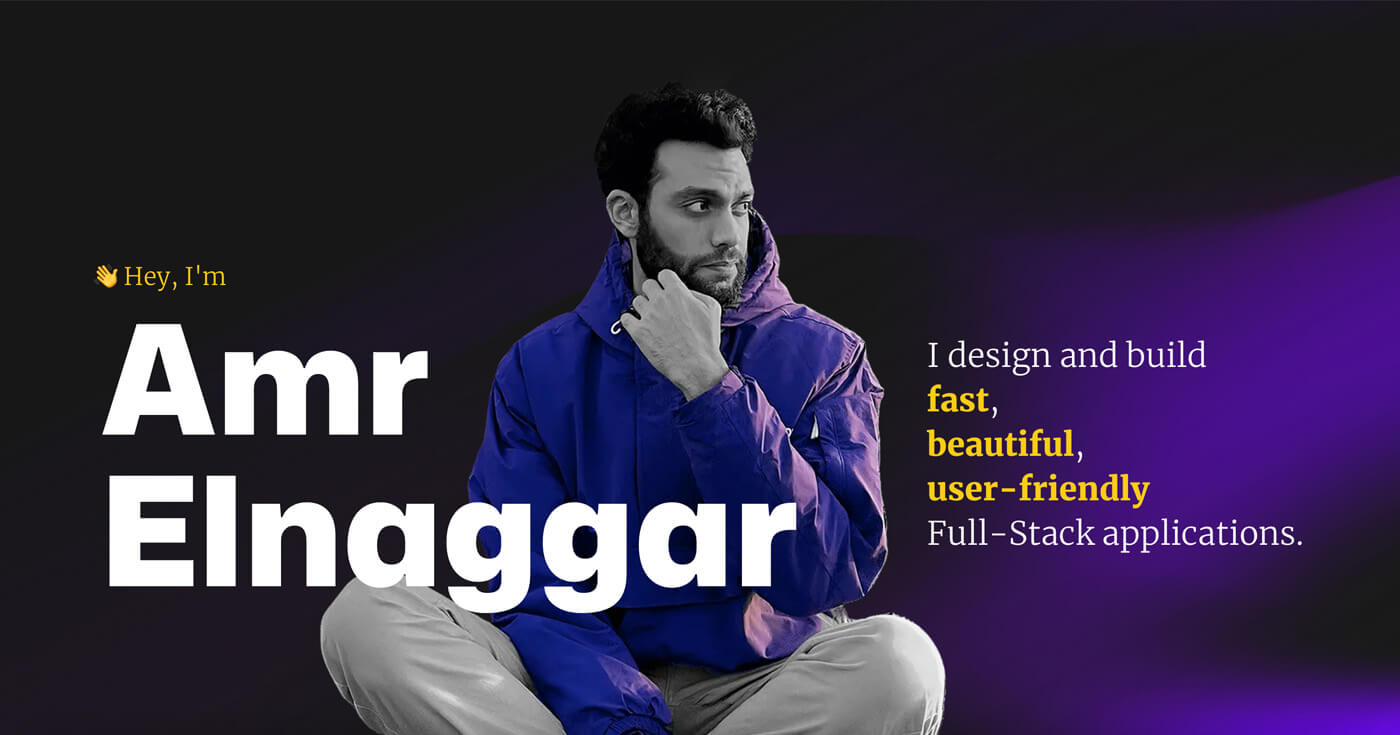
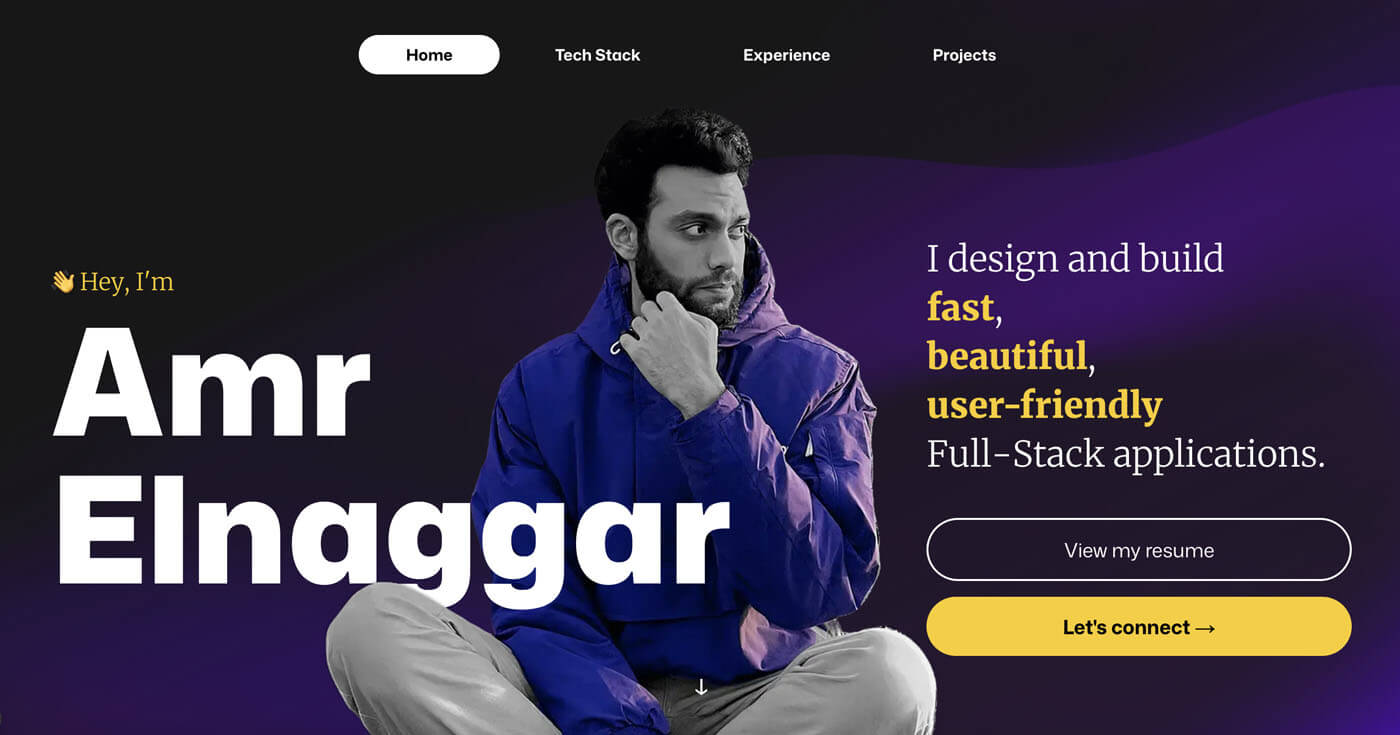
make the name in heroSlide masked by the photo

diff --git a/components/slides/HeroSlide.tsx b/components/slides/HeroSlide.tsx
@@ -9,6 +9,7 @@ import Image from "next/image";
 import AnimatedHead from "@/components/animations/AnimatedHead";
 import { Gradient } from "@/utils/gradient.js";
 import amrWebp from "@/public/amr.webp";
+import textMask from "@/public/masking-text.webp";
 
 function HeroSlide({ setActive }: { setActive: React.Dispatch<React.SetStateAction<string>> }) {
   const [_, setMousePosition] = useState({ x: 0, y: 0 });
@@ -163,7 +164,7 @@ function HeroSlide({ setActive }: { setActive: React.Dispatch<React.SetStateActi
             ↓
           </span>
         </motion.div>
-        <div className="absolute md:-right-[300px] md:-bottom-10 lg:-bottom-32 xl:-bottom-48 lg:right-1/2 lg:-mr-[200px] xl:-mr-[240px] z-10 hidden md:block">
+        <div className="absolute md:-right-[300px] md:-bottom-10 lg:-bottom-32 xl:-bottom-48 lg:right-1/2 lg:-mr-[200px] xl:-mr-[240px] hidden md:block">
           <motion.div
             aria-hidden
             id="heroImage"
@@ -176,12 +177,20 @@ function HeroSlide({ setActive }: { setActive: React.Dispatch<React.SetStateActi
               element?.classList.replace("will-change-opacity", "will-change-auto");
             }}
           >
+            <div className="w-[calc(251px*0.625)] h-[calc(287px*0.625)] xl:w-[calc(251px*0.704)] xl:h-[calc(287px*0.704)] absolute top-[426px] xl:top-[480px] left-[-6px] z-[999] hidden lg:block">
+              <Image
+                src={textMask}
+                alt=""
+                fill
+                sizes="(max-width: 768px) 251px, (max-width: 287px) 244px"
+              />
+            </div>
             <Image
               src={amrWebp}
               alt=""
               fill
               priority
-              className="-scale-x-100 lg:scale-x-100"
+              className="-scale-x-100 lg:scale-x-100 relative z-10"
               sizes="(max-width: 768px) 100vw, (max-width: 1200px) 50vw, 33vw"
             />
           </motion.div>

diff --git a/components/StickyHeader.tsx b/components/StickyHeader.tsx
@@ -1,11 +1,5 @@
-import {
-  motion,
-  AnimatePresence,
-  useScroll,
-  useTransform,
-  useMotionValueEvent,
-} from "framer-motion";
-import React, { useEffect, useLayoutEffect, useRef, useState } from "react";
+import { motion, AnimatePresence, useScroll, useMotionValueEvent } from "framer-motion";
+import React, { useEffect, useRef, useState } from "react";
 
 const sections = [
   {
